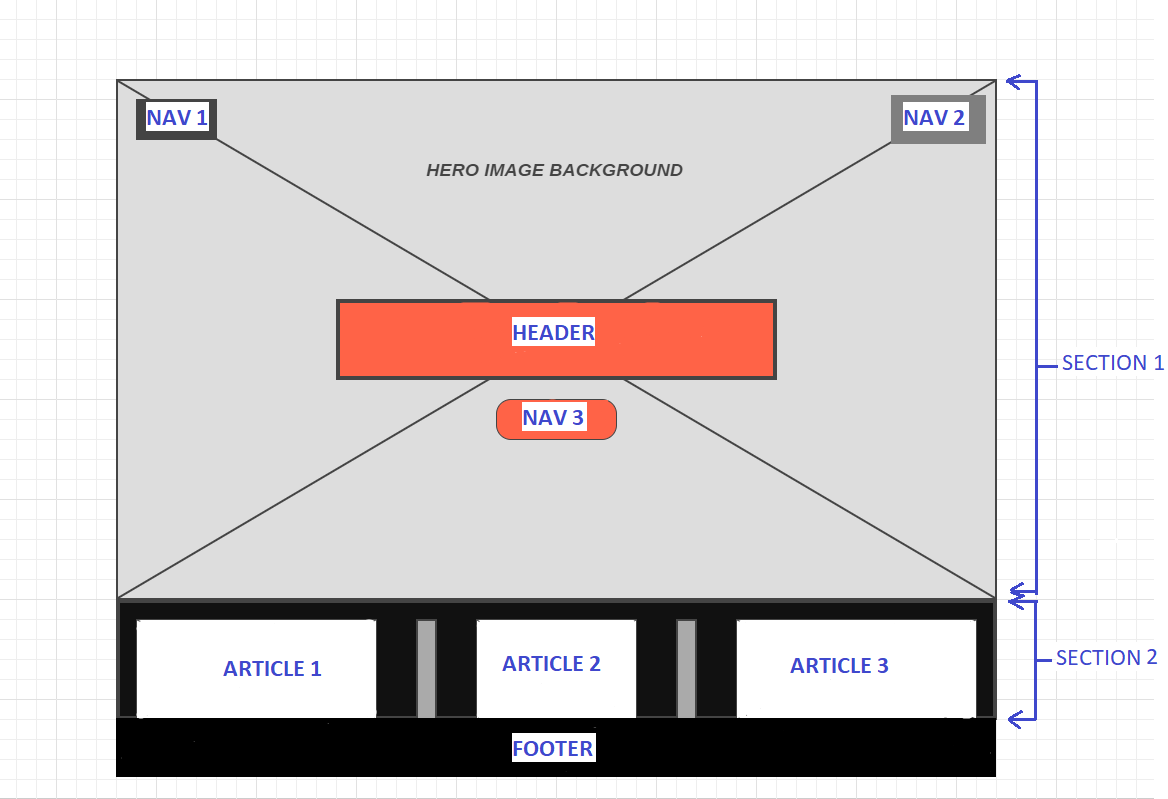
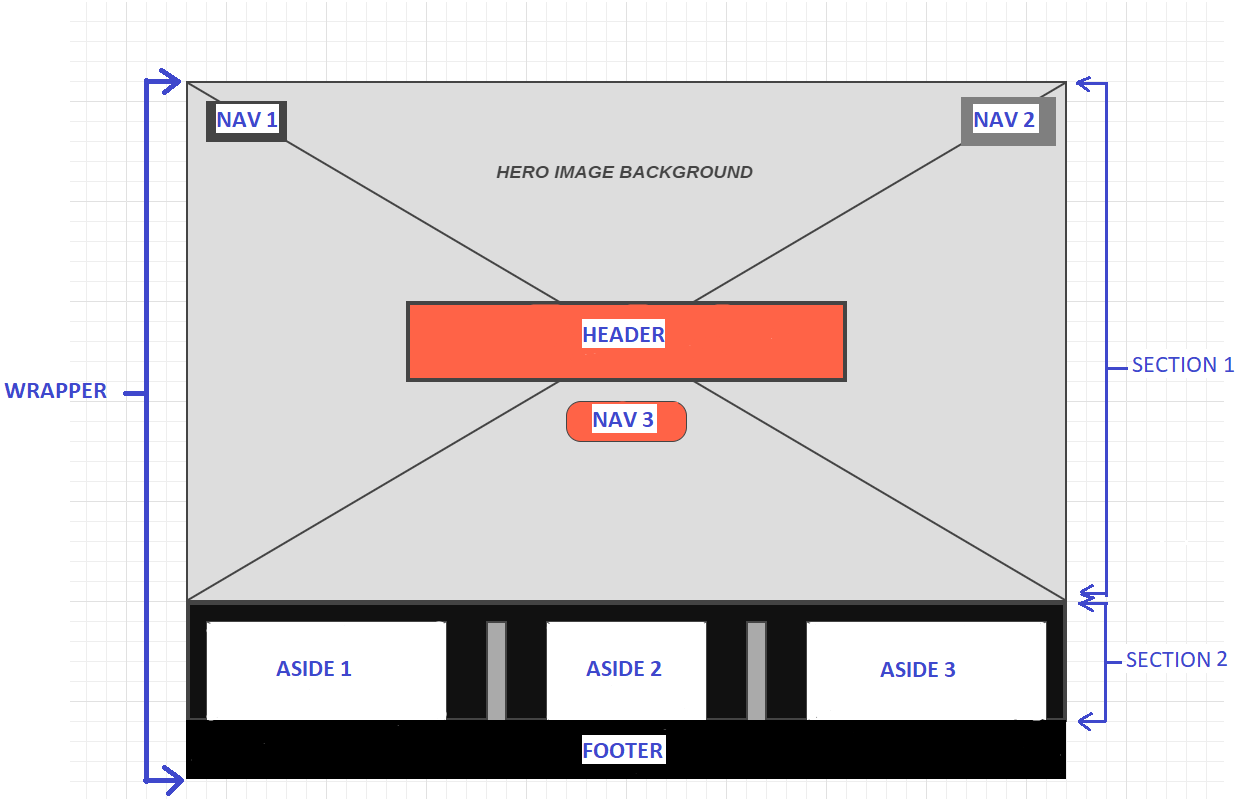
many fixes_should be good now

diff --git a/unit_5/index.html b/unit_5/index.html
@@ -1,0 +1,46 @@
+<!DOCTYPE html>
+<html>
+	<head>
+		<link rel="stylesheet" type="text/css" href="css/style.css">
+		<title>TONY ALBERT VISUALS</title>
+	</head>
+	<body>
+		<div class="wrapper">
+		<section id="one">
+			<nav id="logo">
+				<h2>LOGO</h2>
+			</nav>
+			<nav id="login">
+				<h4>LOGIN</h4>
+			</nav>
+		<header>
+			<h1>TONY ALBERT VISUALS</h1>
+			<h3>Quality never goes out of style.</h3>
+		</header>
+			<nav id="signup">
+			  <h5>SIGN-UP</h5>
+			</nav>
+		</section>
+		<section id="two">
+			<aside id="pic1">
+				<img src="https://i.imgur.com/tvwcowN.jpg" alt="Meadow" style="float: left; width: 32%; margin-right: 1.5%; margin-bottom: 0.5em; margin-top: 0.65em;">
+			</aside>	
+			<aside id="pic2">
+				<img src="https://i.imgur.com/iIAw2mq.jpg" alt="Rock" style="float: left; width: 32%; margin-right: 1.5%; margin-bottom: 0.5em; margin-top: 0.5em;">
+			</aside>
+			<aside id="pic3">
+				<img src="https://i.imgur.com/kZpWiFi.jpg" alt="Tree" style="float: left; width: 32%; margin-right: 0.5%; margin-bottom: 0.5em; margin-top: 0.5em;">
+        <p style="clear: both;">
+			</aside>
+		</section>
+		<footer>
+			<p>Lorem ipsum dolor sit amet, consectetur adipisicing elit, sed do eiusmod
+			tempor incididunt ut labore et dolore magna aliqua. Ut enim ad minim veniam,
+			quis nostrud exercitation ullamco laboris nisi ut aliquip ex ea commodo
+			consequat. Duis aute irure dolor in reprehenderit in voluptate velit esse
+			cillum dolore eu fugiat nulla pariatur. Excepteur sint occaecat cupidatat non
+			proident, sunt in culpa qui officia deserunt mollit anim id est laborum.</p>
+		</footer>
+		</div>
+	</body>
+</html>

diff --git a/unit_5/css/style.css b/unit_5/css/style.css
@@ -1,0 +1,67 @@
+@import url('https://fonts.googleapis.com/css?family=Kanit:700');
+@import url('https://fonts.googleapis.com/css?family=Kaushan+Script');
+
+body {
+	text-align: center;
+	color: #fff;
+	font-family: 'Kanit', sans-serif;
+}
+#one {
+	background: url("https://i.imgur.com/v4Ahevr.jpg");
+	background-size: cover;
+}
+header {
+	padding-top: 200px;
+	padding-bottom: 100px;
+}
+h1 {
+	font-size: 110px;
+	color: #29219C;
+	text-shadow: 5px 5px #FFB900;
+}
+h2 {
+	font-size: 40px;
+	color: #29219C;
+    text-shadow: 2px 2px #FFB900;
+	float: left;
+	margin-left: 0.5em;
+}
+h3 {
+	font-size: 45px;
+	text-shadow: 2px 2px #29219C;
+	color: #FFB900;
+	font-family: 'Kaushan Script', cursive;
+}
+h4 {
+	font-size: 40px;
+	color: #29219C;
+	text-shadow: 2px 2px #FFB900;
+	float: right;
+	margin-left: 0.5em;
+	box-sizing: content-box;
+	width: 150px;
+	border: solid #29219C 4px;
+	margin-right: 0.5em;
+}
+h5 {
+	font-size: 30px;
+	color: #FFB900;
+	text-shadow: 3px 3px #29219C;
+	box-sizing: content-box;
+	width: 150px;
+	border: solid #29219C 4px;
+	display: inline-block;
+}
+footer {
+	padding-top: 200px;
+	padding-bottom: 30px;
+	background-color: black;
+	border: 1px black solid;
+}
+aside {
+	background-color: black;
+	border: 1px black solid;
+}
+p {
+  color: white;
+}
